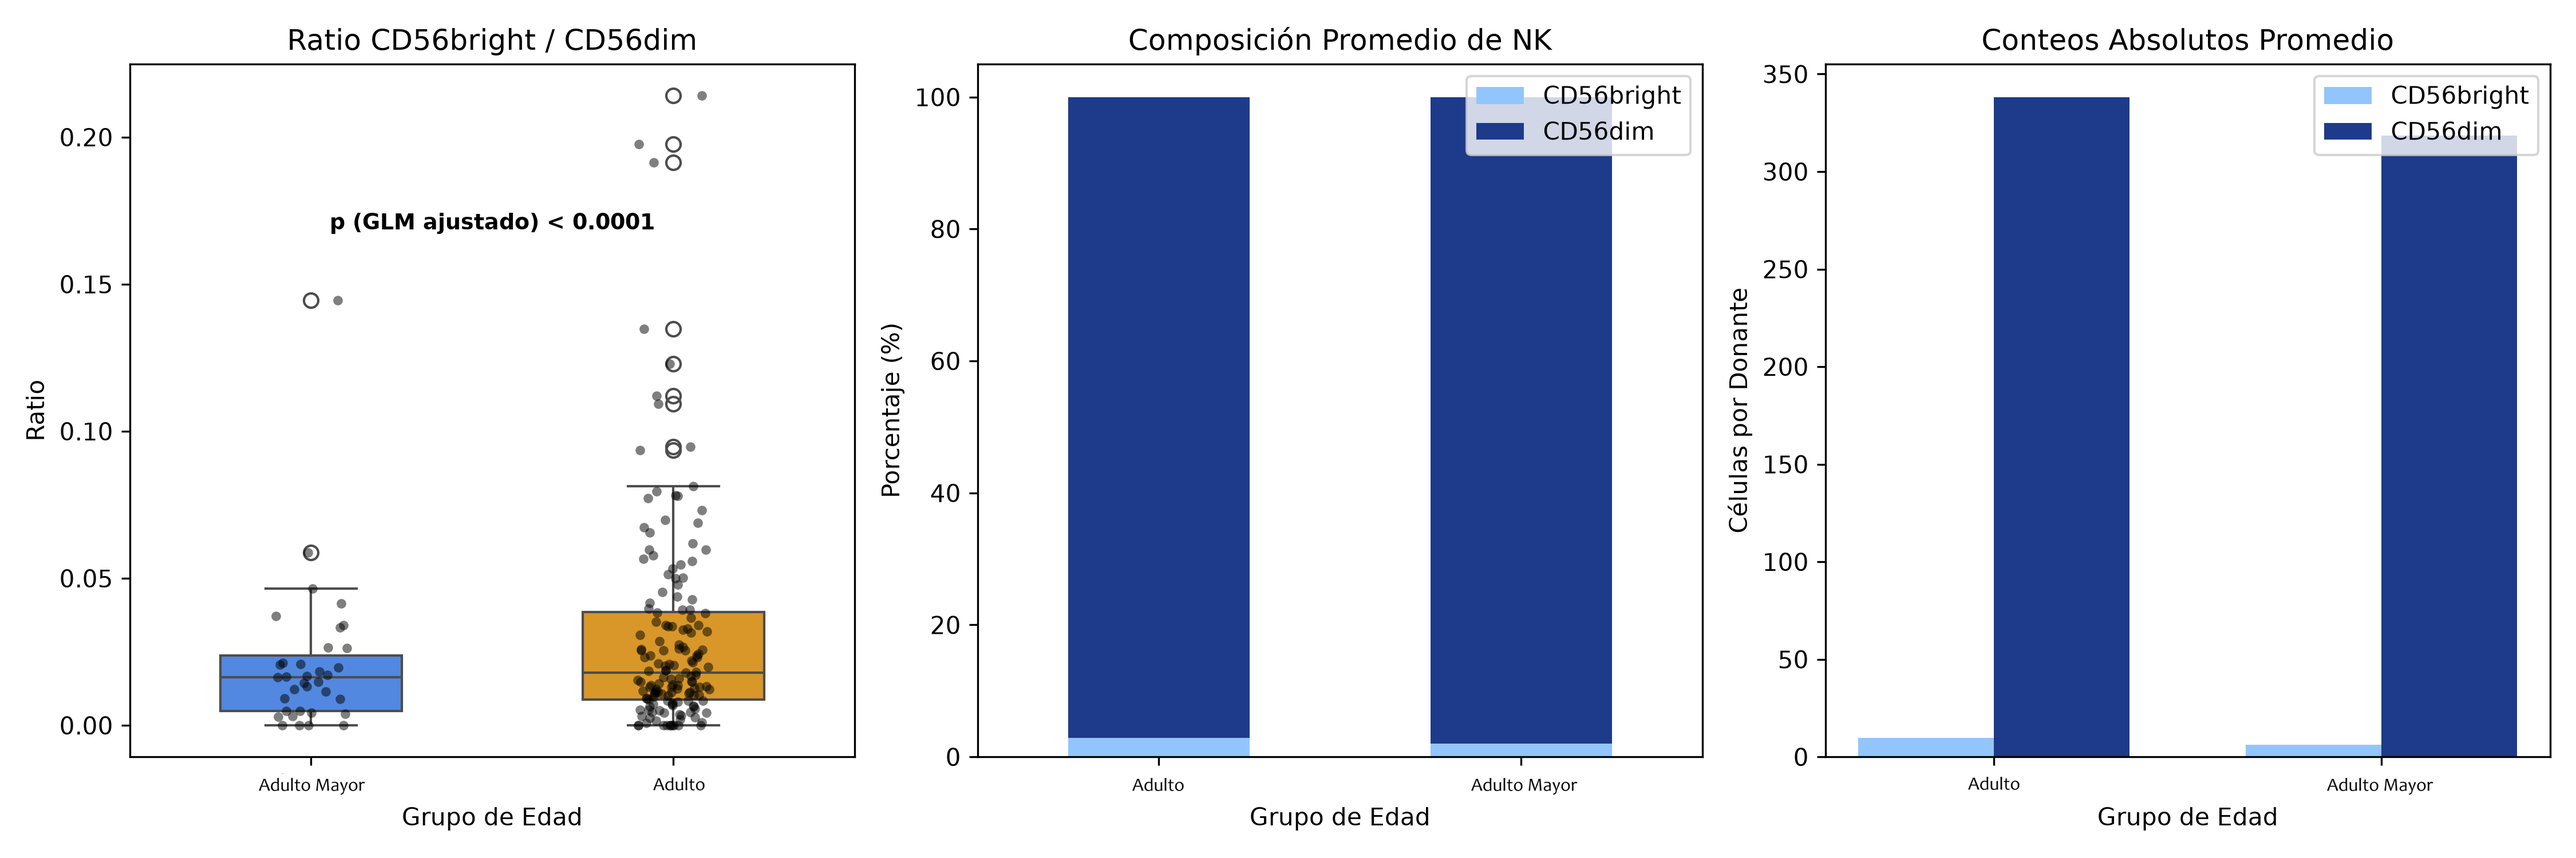
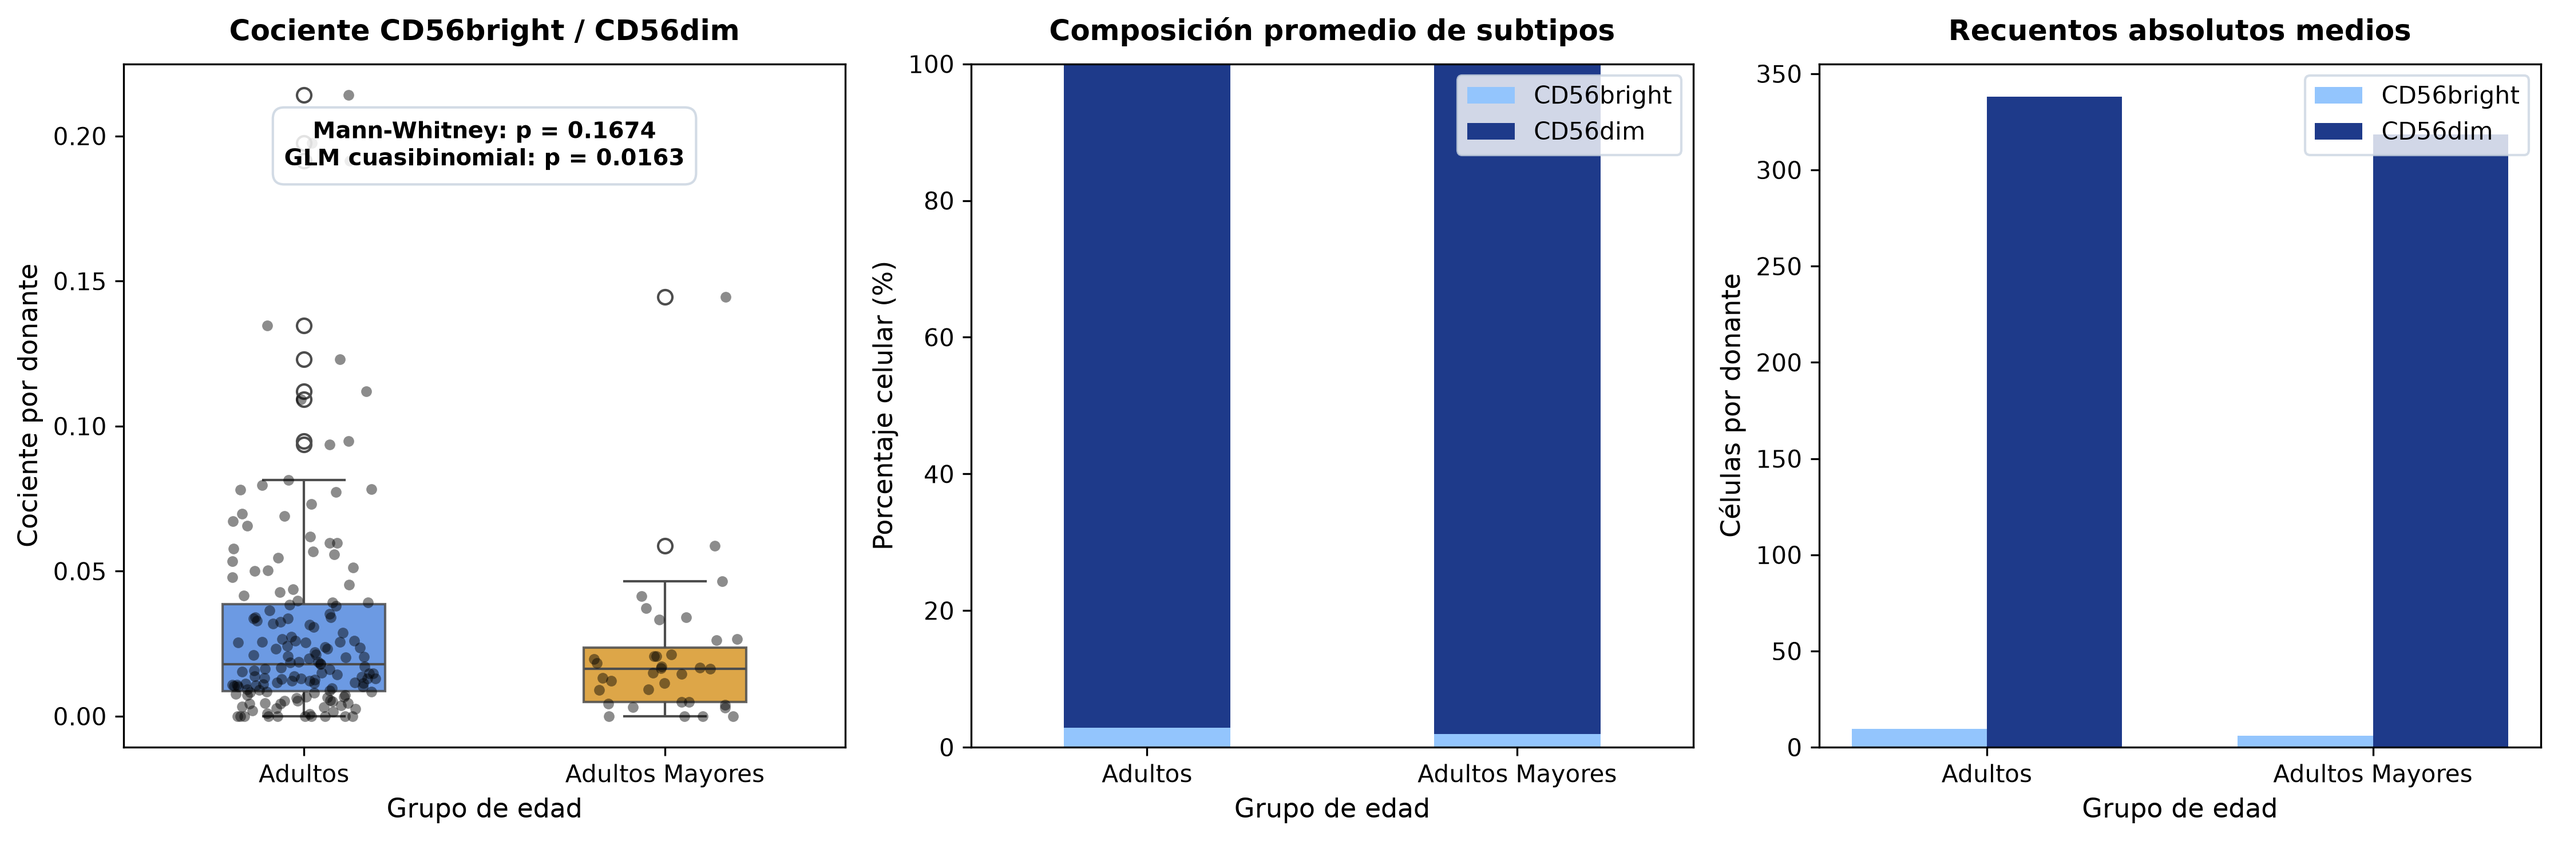
feat(figures): actualizar Figura 4 (GLM p=0.0163), regenerar Figura 2 (V4-Clean) y registrar release Census 2023-12-15
- P6: Regenerar Figura 4 con anotacion estadistica de Mann-Whitney (p = 0.1674) y GLM cuasibinomial ajustado por lote (p = 0.0163) a 300 DPI y rotulos en espanol.
- P8: Actualizar diagrama de flujo metodologico (Figura 2) con metricas canonicas V4-Clean (23 DEGs globales, 0 en dim, 0 en bright; 98% dim / 2% bright) y resguardar fuente en docs/figura2_flujo_metodologico.mmd.
- P2: Armonizar version del CellxGene Census a release LTS 2023-12-15 en 04_Metodologia.md en plena concordancia con 05_Resultados.md.

diff --git a/tesis/manuscripts/05_Resultados.md b/tesis/manuscripts/05_Resultados.md
@@ -72,9 +72,9 @@ La dinámica demográfica de las subpoblaciones reveló una contracción pronunc
 
 Esta regresión cuantificó una reducción del 37.51% en los momios de que una célula NK fuera CD56^bright^, asociada a una OR de 0.6249 con un intervalo de confianza al 95% de $[0.4258, 0.9170]$ (@fig-4). Considerando que este subconjunto constituye el productor fisiológico primordial de factores inmunomoduladores e inmunoatrayentes, particularmente IFN-$\gamma$ y las quimiocinas *XCL1* y *XCL2* (Cooper et al., 2001; Poli et al., 2009), el declive numérico observado es compatible con una involución preferencial del brazo secretor frente a la preservación cuantitativa del compartimento citotóxico maduro.
 
-![Proporción de células NK CD56^bright^ y abundancia diferencial entre adultos y adultos mayores: cociente CD56^bright^/CD56^dim^ por donante (diagramas de caja), composición media y conteos medios por grupo.](figures_clean/fig4.png){#fig-4 width=85% fig-align="center"}
+![Proporción de células NK CD56^bright^ y abundancia diferencial entre adultos y adultos mayores: cociente CD56^bright^/CD56^dim^ por donante (diagramas de caja y dispersión individual), composición relativa media y recuentos celulares absolutos medios por grupo de edad.](figures_clean/fig4.png){#fig-4 width=85% fig-align="center"}
 
-*Nota.* El valor de *p* anotado en el primer panel corresponde al GLM sin corrección por sobredispersión; con la corrección, *p* = 0.0163 (véase el texto). Modelo con 187 donantes (152 adultos y 35 adultos mayores).
+*Nota.* El valor de *p* anotado en el primer panel resume el contraste no paramétrico de rangos de Mann-Whitney ($p = 0.1674$) y el modelo lineal generalizado cuasibinomial ajustado por plataforma de secuenciación con corrección empírica de Pearson ($p = 0.0163$; $\text{OR} = 0.6249$). Modelo evaluado sobre la cohorte balanceada de 187 donantes (152 adultos y 35 adultos mayores).
 
 ## Expresión diferencial (PyDESeq2) y control del sesgo tecnológico
 

diff --git a/tesis/manuscripts/04_Metodologia.md b/tesis/manuscripts/04_Metodologia.md
@@ -2,7 +2,7 @@
 
 ## Recolección y preprocesamiento de datos
 
-El análisis se realizó con datos de tipo scRNA-seq obtenidos del repositorio *CellxGene* Census (CZI Cell Science Program et al., 2025), restringiendo la búsqueda a muestras de tejido sanguíneo humano provenientes de donantes sanos. Para el procesamiento y análisis computacional se emplearon rutinas desarrolladas en Python (versión 3.12.3).
+El análisis se realizó con datos de tipo scRNA-seq obtenidos del repositorio *CellxGene* Census (versión LTS `2023-12-15`; CZI Cell Science Program et al., 2025), restringiendo la búsqueda a muestras de tejido sanguíneo humano provenientes de donantes sanos. Para el procesamiento y análisis computacional se emplearon rutinas desarrolladas en Python (versión 3.12.3).
 
 La selección de las muestras se rigió por criterios de inclusión y exclusión diseñados para garantizar la calidad y la relevancia biológica del estudio. Se incluyeron únicamente datos primarios de donantes sanos con edades iguales o superiores a 34 años, cuyas células estuvieran anotadas específicamente como células NK o sus subtipos, y que contaran con metadatos completos referentes a edad y sexo. Por contraparte, se excluyeron aquellos datos provenientes de tejidos distintos a la sangre periférica, de muestras de individuos sometidos a tratamientos farmacológicos, de donantes menores de 34 años, así como cualquier célula que careciera de una anotación clara o perteneciera a linajes celulares distintos.
 
